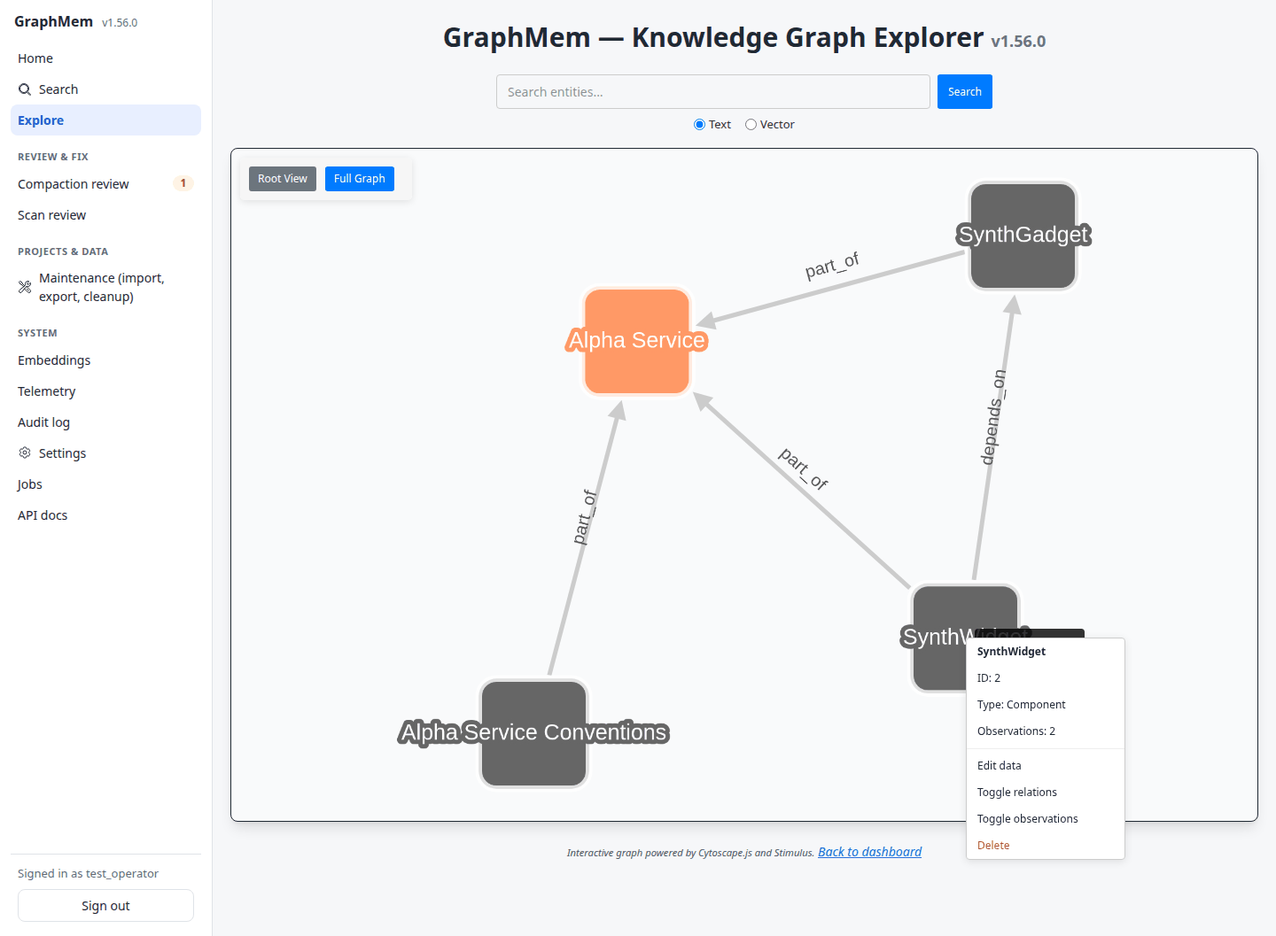
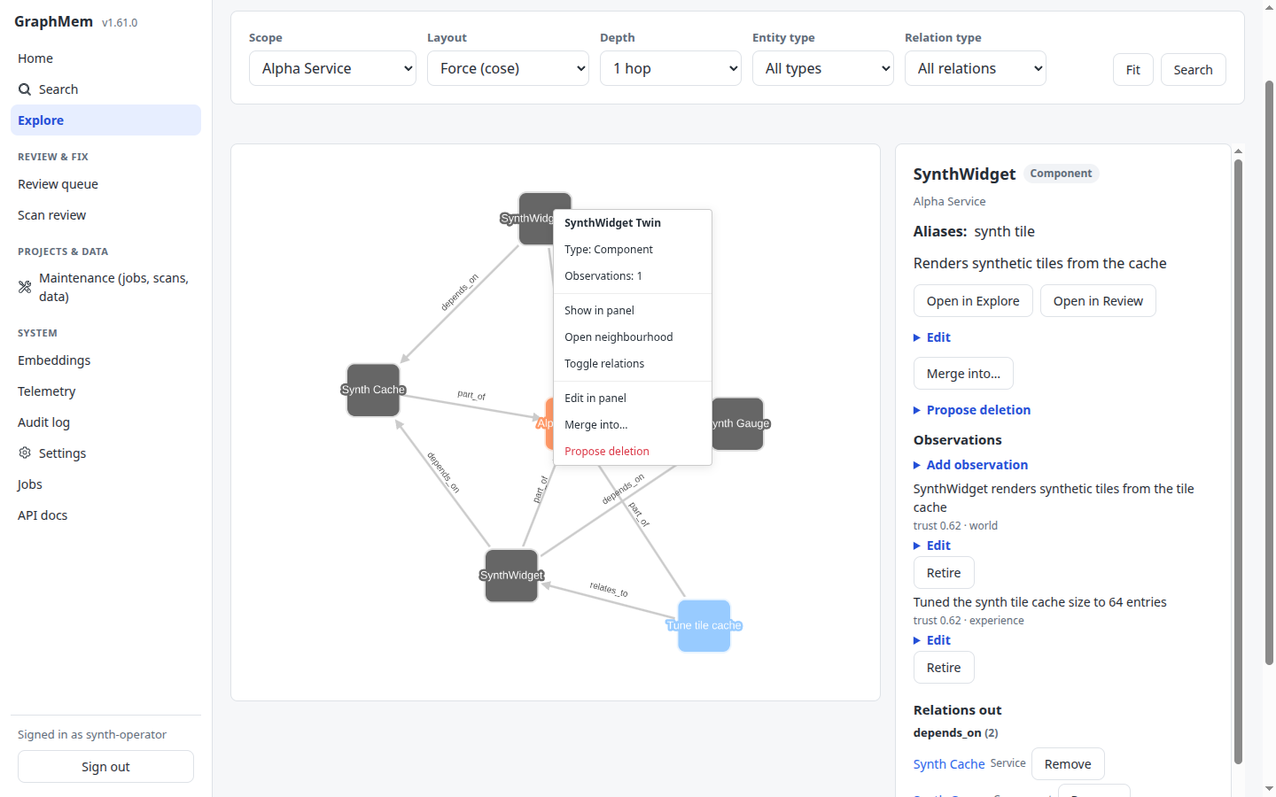
D: docs for Explore
ui-guide: the new Explore section (toolbar, scopes, the cap, menus, drop menu,
panel edits, the merge dialog, the 10-minute undo, Propose deletion), the
guest's read-only Explore, and Undo from Recent changes; the hard-delete and
dedupe text is gone. Synthetic screenshots replace explore-context-menu,
explore-drag-drop and guest-explore, and add explore-merge-dialog.
architecture: the explore.* change set kinds, EntityMergePreview and
EntityMergeService with the before_merge: digest guard, the toast window.
REST reference and Swagger: graph_data's ids, project_id, depth, the cap and
422. Dashboard plan: row 20, F-1, F-2 and the UI-3 leftovers done in #136.

Claude-Session: https://claude.ai/code/session_01R47S482fLpAAcZ5MTLK5o9

diff --git a/docs/plans/ui-dashboard-plan.md b/docs/plans/ui-dashboard-plan.md
@@ -88,11 +88,11 @@ Answered and dropped from the open questions: all four Oct 20 UI questions (acco
 | 17 | ✅ **UI-5** Review & Fix, as UI-5a (#128: data model, limits, policies; no bump) + UI-5b (#129: page, release). Step list: `docs/plans/ui-5-plan.md` | graph_mem **1.58.0** | [Claude] | done |
 | 18 | ✅ **UI-2** as UI-2a (#133: editable MCP allowlists + `bin/up`, **1.58.3**) + UI-2b (#134: Home, **1.59.0**). Step list: `docs/plans/ui-2-plan.md` | graph_mem **1.58.3** + **1.59.0** | [Claude] | done |
 | 19 | ✅ **UI-3** Search, one PR (#135): `GraphSearch` extraction, project/type/match-in filters on the MCP `search` tool and REST search, the Search page and panel, "Show as graph". Step list: `docs/plans/ui-3-plan.md` | graph_mem **1.60.0** | [Claude] | done |
-| 20 | **UI-4b** Explore, one PR, with F-1, F-2 and the UI-3 leftovers folded in. Step list: `docs/plans/ui-4b-plan.md` | **1.61.0** | [Claude] | UI-3 ✅ (panel), UI-4a ✅; **next up** |
+| 20 | **UI-4b** Explore, one PR, with F-1, F-2 and the UI-3 leftovers folded in. Step list: `docs/plans/ui-4b-plan.md` | **1.61.0** | [Claude] | ✅ #136 |
 | 21 | **UI-6** Projects & Data | **1.62.0** | [Claude] | PR-0 ✅, UI-1 |
 | 22 | **UI-7** System (settings schema, backups, access) | **1.63.0** | [Claude] | UI-1 |
 | UD | The other Devin-simple chores (§6.D: D-4 … D-8) | `[Unreleased]` | [Devin-simple] | as listed |
-| F | Small follow-ups (§6.F: F-1, MCP errors never reach the log; F-2, GitHub Actions Ruby setup on `ubuntu-26.04`) | folded into UI-4b (**1.61.0**), Oct 28 | [Claude] | with row 20 |
+| F | Small follow-ups (§6.F: F-1, MCP errors never reach the log; F-2, GitHub Actions Ruby setup on `ubuntu-26.04`) | folded into UI-4b (**1.61.0**), Oct 28 | [Claude] | ✅ #136 (with row 20) |
 
 Rows 0, 1, 1a–1c come from `agent-rules-plan.md`; rows 2, 4–6, 7–14 and D from `mcp-update-plan.md` (both done apart from 1a–1c). `D-nn` numbers refer to the mcp plan's decisions.
 
@@ -551,7 +551,7 @@ See `mcp-update-plan.md`. On the UI side, PR-0 adds only the Settings › Projec
 - **Acceptance:** Home fits in ~1.5 screens at 1440×900 with synthetic data and renders in < 300 ms with the embedding service unreachable (`OLLAMA_URL=http://127.0.0.1:9`; lazy frames).
 
 ### UI-3 [Claude]: Search → **1.60.0** ✅ DONE
-- **Done:** PR #135 (`claude/ui-3-search`), merged as `5e17353` and tagged 1.60.0 (Oct 28). Optional review leftovers (edge-case specs for `page` and Exact-mode escaping, a separate exact-name lookup under the 1,000-row scan cap) are listed at the top of `docs/plans/ui-3-plan.md`.
+- **Done:** PR #135 (`claude/ui-3-search`), merged as `5e17353` and tagged 1.60.0 (Oct 28). Optional review leftovers (edge-case specs for `page` and Exact-mode escaping, a separate exact-name lookup under the 1,000-row scan cap) are listed at the top of `docs/plans/ui-3-plan.md`; ✅ done in #136 (UI-4b step L).
 - **Step list:** `docs/plans/ui-3-plan.md` (Oct 28, revised with Steve's decisions, verified at `487804e`). It wins where the two differ: **one PR** on `claude/ui-3-search`; project, entity type and "match in" (`search_in_*`, now in both modes) become real filters of the MCP `search` tool and `GET /api/v1/memory_entities/search`, applied before ranking (intended `tools/list` snapshot change); the page ignores agents' context; the panel is `EntitiesController#panel`; no `index` action; "Show as graph" ships here as `/graph?ids=` + `GET /api/v1/graph_data?ids=` (see UI-4b).
 - **Branch:** `claude/ui-3-search`.
 - **Files:** new `app/services/graph_search.rb` (extracted from `app/tools/search_tool.rb`; the tool calls it), `app/controllers/search_controller.rb` (thin, `allow_guest :results, :index`), `app/views/search/{index,_filters,_result,_snippet}.html.haml`, `app/views/entities/_panel.html.haml` + `EntitiesController#panel` (`allow_guest :panel`), `app/javascript/controllers/search_controller.js`.
@@ -568,7 +568,8 @@ See `mcp-update-plan.md`. On the UI side, PR-0 adds only the Settings › Projec
 - **Specs:** `spec/services/entity_merge_preview_spec.rb` (the preview matches the actual merge effects on a synthetic graph: counts of moved observations, re-pointed and destroyed relations, reparented children; the preview writes nothing: assert no audit rows or change sets); `spec/services/change_set_undo/merge_spec.rb` (round trip: merge → undo restores the same ids, names, aliases, observation owners, trust scores, relation endpoints, project_ids and the embedding bytes; refuses on a name collision; refuses when an observation moved after the merge; refuses after `undoable_until`; undo of undo = redo); `spec/services/change_set_undo/audit_inverse_spec.rb` (each inverse; refuses when changed since); `spec/requests/changes_spec.rb` (operator 200, guest 403, CSRF required); `spec/strategies/node_operations_strategy_merge_snapshot_spec.rb` (every caller path writes a snapshot; a failing snapshot write rolls the merge back). Plus a concurrency spec (`use_transactional_tests = false`, clean up after): an undo racing a write on the same target blocks on the membership lock and then refuses or succeeds, never a 500 or partial state. That's Steve's rule: block or queue, never race.
 - **Acceptance:** any merge made by any path can be undone from the Rails console with `ChangeSetUndo.call(uuid)` within its window; all existing merge specs stay green.
 
-### UI-4b [Claude]: Explore → **1.61.0**
+### UI-4b [Claude]: Explore → **1.61.0** ✅ DONE
+- **Done:** PR #136 (`claude/ui-4b-explore`), with F-1, F-2 (Ruby 3.4.12) and the UI-3 leftovers (the exact-name query, the backslash and `page` specs).
 - **Builds on UI-3 (Oct 28):** UI-3 adds the read-only panel (`EntitiesController#panel`, Turbo Frame `entity-panel`), `GET /api/v1/graph_data?ids=` (≤ 100 ids, relations among them) and `/graph?ids=` for "Show as graph". Explore's "from search" scope reads the same `ids` parameter from the same endpoint; when this PR deletes `/graph`, redirect `/graph?…` to `/explore?…` with the query string and point Search's "Show as graph" at `explore_path(ids:)`. Reuse (or move under `explore/`) UI-3's panel instead of writing a second one.
 - **Step list:** `docs/plans/ui-4b-plan.md` (Oct 28, verified at `9c8d3bc`). It wins where the two differ, and also carries §6.F F-1, F-2 and the UI-3 leftovers (folded in by Steve, Oct 28).
 - **Branch:** `claude/ui-4b-explore`.
@@ -635,7 +636,7 @@ Each item: branch `devin/ui-d<n>-<slug>` off `main`, the listed spec green, the 
 
 ### 6.F Follow-ups (small, specified items found in review)
 
-- **[Claude] F-1. MCP errors never reach the log** (found in the #134 review, Oct 28). `lib/graph_mem/official_mcp.rb:10-12` (`EXCEPTION_REPORTER`) hands the `mcp` gem's internal errors (its -32603 path, failed notifications) to `Rails.error.report(exception, handled: true, context: { mcp: context.to_h })`, but the app registers **no** `Rails.error` subscriber (`rg -n "Rails.error.subscribe" app lib config` → nothing). `ActiveSupport::ErrorReporter#report` only calls subscribers; `Rails.error.logger` is used only when a subscriber itself raises. So these errors are dropped silently. #134 hit the same gap in `PagesController#home_section` and worked around it with an explicit `Rails.logger.error` (`app/controllers/pages_controller.rb:25-27`).
+- ✅ **Done in #136 (1.61.0).** **[Claude] F-1. MCP errors never reach the log** (found in the #134 review, Oct 28). `lib/graph_mem/official_mcp.rb:10-12` (`EXCEPTION_REPORTER`) hands the `mcp` gem's internal errors (its -32603 path, failed notifications) to `Rails.error.report(exception, handled: true, context: { mcp: context.to_h })`, but the app registers **no** `Rails.error` subscriber (`rg -n "Rails.error.subscribe" app lib config` → nothing). `ActiveSupport::ErrorReporter#report` only calls subscribers; `Rails.error.logger` is used only when a subscriber itself raises. So these errors are dropped silently. #134 hit the same gap in `PagesController#home_section` and worked around it with an explicit `Rails.logger.error` (`app/controllers/pages_controller.rb:25-27`).
   - **Fix (preferred): one small subscriber, which fixes every caller at once.** New `config/initializers/error_logging.rb` with a `GraphMem::ErrorLogSubscriber` (`report(error, handled:, severity:, context:, source:)`) registered with `Rails.error.subscribe`. It logs one line at **error** level: `"#{error.class}: #{error.message}"` plus `source` and the context. Rules:
     - Log **handled** reports only (`return unless handled`). Unhandled ones (requests, jobs) are already logged by Rails, and logging them here would duplicate them.
     - **No secrets or payloads.** The gem passes `{ request: params }` (and `{ request: request }`) as context, i.e. the raw JSON-RPC params, which can carry tool arguments and observation text. Reduce `context[:mcp]` to `method` and the tool `name` when present, never `arguments`. Pass the rest through `ActiveSupport::ParameterFilter.new(Rails.application.config.filter_parameters)`, and truncate the logged context (e.g. 500 chars).
@@ -645,7 +646,7 @@ Each item: branch `devin/ui-d<n>-<slug>` off `main`, the listed spec green, the 
   - **Specs:** `spec/initializers/error_logging_spec.rb` (or `spec/lib/graph_mem/error_log_subscriber_spec.rb`): a handled `Rails.error.report(StandardError.new("synth failure"), handled: true, context: { mcp: { request: { method: "tools/call", params: { name: "search", arguments: { query: "SynthWidget" } } } } })` writes one error line containing the class, message, `tools/call` and `search`, and **not** `SynthWidget`; a context with `token: "synth-secret"` shows `[FILTERED]`; an unhandled report (`handled: false`) writes nothing; a subscriber failure doesn't raise. Plus one spec through `GraphMem::OfficialMcp::EXCEPTION_REPORTER.call(error, { request: … })`. Existing `pages_spec` broken-widget example stays green.
   - **Size:** folded into UI-4b (**1.61.0**), its own commit (Steve, Oct 28). Steps in `docs/plans/ui-4b-plan.md` "F-1".
 
-- **[Claude] F-2. GitHub Actions can't set up Ruby** (found in the #135 review, Oct 28). All three jobs in `.github/workflows/ci.yml` (`scan_ruby`, `scan_js`, `lint`) run on `runs-on: ubuntu-latest` and install Ruby with `ruby/setup-ruby@v1` and `ruby-version: .ruby-version` (`ruby-3.4.1`). Since `ubuntu-latest` moved to Ubuntu 26.04 (from Oct 19), each job fails in seconds with "Unavailable version 3.4.1 for ruby on ubuntu-26.04"; the action builds only the latest patch of each series for newer images and names `3.4.12` as available. `main` fails the same way (first seen on `8ef3c04`); CircleCI (rspec, rubocop, brakeman) is unaffected because it uses the `cimg/ruby` images.
+- ✅ **Done in #136 (1.61.0), Fix A with Ruby 3.4.12.** **[Claude] F-2. GitHub Actions can't set up Ruby** (found in the #135 review, Oct 28). All three jobs in `.github/workflows/ci.yml` (`scan_ruby`, `scan_js`, `lint`) run on `runs-on: ubuntu-latest` and install Ruby with `ruby/setup-ruby@v1` and `ruby-version: .ruby-version` (`ruby-3.4.1`). Since `ubuntu-latest` moved to Ubuntu 26.04 (from Oct 19), each job fails in seconds with "Unavailable version 3.4.1 for ruby on ubuntu-26.04"; the action builds only the latest patch of each series for newer images and names `3.4.12` as available. `main` fails the same way (first seen on `8ef3c04`); CircleCI (rspec, rubocop, brakeman) is unaffected because it uses the `cimg/ruby` images.
   - **Fix A (preferred): bump Ruby to the current 3.4.x** in every place that pins it, in one commit: `.ruby-version`; `Dockerfile` (`ARG RUBY_VERSION=3.4.1`); `.circleci/config.yml` (`cimg/ruby:3.4.1` and `cimg/ruby:3.4.1-browsers`; check that the matching `cimg` tags exist); `bin/mcp_graph_mem_runner.sh` (`EXPECTED_RUBY_VERSION`); `.cursor/install.sh` and `.cursor/environment.json`; the RVM commands in `AGENTS.md`; the badge and prerequisites in `README.md`; and the gemset defaults in `script/mcp_compat/` (`clients.sh`, `rsdk_client.rb`, `rsdk_server.rb`, `README.md`; leave the recorded-run lines as they are). The `Gemfile` has no `ruby` line and `Gemfile.lock` no `RUBY VERSION` section, so neither changes. **Steve chooses the version** (3.4.12 is what the runner offered on Oct 28). Local RVM gemsets need re-creating for the new version.
   - **Fix B (stopgap): pin `runs-on: ubuntu-24.04`** on the three jobs (and the commented-out job at the bottom of `ci.yml`, if it is ever re-enabled). Smaller, but it only lasts until that image is retired, and Ruby stays on an old patch.
   - **Check:** the three Actions jobs green on the PR; CircleCI still green; `docker build` still works with the new `RUBY_VERSION`.

diff --git a/docs/guides/ui-guide.md b/docs/guides/ui-guide.md
@@ -1,6 +1,6 @@
 # GraphMem web UI guide
 
-A tour of the web UI for the **operator** (the graph's owner, full access) and the optional **read-only guest**, as of 1.60.0. It covers signing in, the app shell, each section, the guest account and the usual problems.
+A tour of the web UI for the **operator** (the graph's owner, full access) and the optional **read-only guest**, as of 1.61.0. It covers signing in, the app shell, each section, the guest account and the usual problems.
 
 The screenshots come from a test instance with synthetic data (`Alpha Service`, `SynthWidget`, `SynthGadget`). The image files are in [`docs/images/ui/`](../images/ui/).
 
@@ -44,7 +44,7 @@ The sidebar lists Home, Search and Explore at the top, then three groups (Review
 |---|---|---|
 | — | **Home** | Status only: the health strip, graph counts, the review digest, jobs, recent changes, MCP clients, and the quick search |
 | — | **Search** | Text or vector search over entities |
-| — | **Explore** | The interactive graph (Cytoscape) |
+| — | **Explore** | The interactive graph (Cytoscape) with the entity panel; the operator edits from both |
 | Review & Fix | **Review queue** | Suggestions from compaction, scans and the stale-memory scan, grouped and ranked. The badge counts groups needing attention (refreshed every 30 s) |
 | Review & Fix | **Scan review** | The same page, project-scan suggestions only |
 | Projects & Data | **Maintenance** | Import, export and cleanup; the compactor, garbage collector and relation repair; project scans; the full MCP clients table |
@@ -109,30 +109,36 @@ Search (`/search`, 1.60.0) runs the same search as the agents' MCP `search` tool
   - Agents' active project context never changes this page's order; the Project filter is the way to narrow it.
   - An invalid filter or date shows its message above the results.
 - **Results**, 20 a page with Previous / Next: name, type, the project it belongs to (or "global"), score and the fields that matched, relation count, and up to two observation snippets with the query's words highlighted (the description when no observation matches). **Open in Explore** opens the entity's neighbourhood.
-- **The entity panel**: click a name and its details open beside the list, read-only: aliases, description, observations by trust (10 at a time, with **Show obsolete**), and relations both ways grouped by type. Relations open their own panel. The operator also gets **Open in Review**, which searches Review & Fix for the entity.
-- **Show as graph** opens Explore with exactly this page's results and the relations among them ("From search"; **Back to Root** returns to the usual view).
+- **The entity panel**: click a name and its details open beside the list: aliases, description, observations by trust (10 at a time, with **Show obsolete**), and relations both ways grouped by type. Relations open their own panel. The operator also gets **Open in Review**, which searches Review & Fix for the entity, and the same edits as in Explore (below).
+- **Show as graph** opens Explore with exactly this page's results and the relations among them (the **From search** scope).
 - The old `/search?q=…&strategy=text|vector` links still work (`vector` is Semantic).
 
 ### Explore
 
-The graph starts in **Root View**, which shows the project roots. **Full Graph** shows every entity.
-- **Hover** a node for a tooltip.
-- **Double-click** a node to open its neighbourhood.
-- **Right-click** a node for its menu:
-  - **Observations: N** opens the observation cards. A **Delete All Duplicates** button appears when there are duplicates.
-  - **Edit data**;
-  - **Toggle relations**, **Toggle observations**;
-  - **Delete**.
-- **Right-click** an edge for **Edit Type** and **Delete Relation**.
+**Explore** (`/explore`) is the graph canvas, a toolbar above it and the entity panel beside it (the same panel as Search's). The old `/graph` links redirect here, query string included.
+
+- **Toolbar:** **Scope** (Root view: the project roots; Full graph; a project and everything under it; Neighbourhood; From search), **Layout** (force, tree, concentric, grid), **Depth** (1 or 2 hops for a neighbourhood), **Entity type** and **Relation type** filters (they only hide elements, nothing is reloaded), **Fit**, and a link to Search. The scope is kept in the URL, so a reload or a shared link opens the same view.
+- **At most 2,000 entities** are drawn at a time. A bigger scope says "Showing 2,000 of N entities; pick a project to see the rest."
+- **Click** a node to open its panel; **double-click** to open its neighbourhood; **hover** for a tooltip.
+- **Right-click** a node for **Show in panel**, **Open neighbourhood** and **Toggle relations**. The operator also gets **Edit in panel**, **Merge into…** and **Propose deletion** (not for a project root). **Right-click** an edge for its endpoints and type; the operator also gets **Remove relation**.
+- **Drag one node onto another** (operator): **Add relation…** opens the type picker (suggested types first, the direction spelled out, **Swap direction**); **Move under…** opens a card with how many entities move and, in amber, any project change; **Merge A into B…** (same type only) opens the merge dialog. **Cancel**, or a click elsewhere, puts the node back.
 
 ![Node context menu (operator)](../images/ui/explore-context-menu.png)
 
-**Drag one node onto another** to open the Node-to-Node Action menu:
-- **Merge Nodes** merges the dragged node into the target.
-- **Create Relation** creates a relationship between the nodes.
-- **Cancel** puts the node back.
-
 ![Drag-and-drop action menu](../images/ui/explore-drag-drop.png)
+
+**Editing from the panel (operator):** **Edit** (name, type, aliases, description; a project root only **Rename** and description), **Add observation** (text and perspective), per observation **Edit** (the old text is kept as superseded) and **Retire** (marks it obsolete), per relation **Remove**, **Merge into…**, **Propose deletion**, and **Recent changes**: the last five changes to the entity, each with **Undo** while it can still be undone.
+- An exact duplicate observation is refused. A similar one shows "Similar to: …" with **Add anyway**. Without embeddings the similarity check is skipped and the toast says "similarity not checked".
+- A name already used in the same project is refused, with the message in the form.
+- Project roots can be renamed but not retyped, given aliases, moved, merged or proposed for deletion.
+
+**The merge dialog:** "Merge **A** (source, will be removed) into **B** (survivor)", **Swap direction**, a hint about which one looks canonical, and what the merge will do: the observations that move, the relations re-pointed and dropped, the aliases B gains, the `part_of` children re-parented and any entities that change project, and the open review rows anchored on A (a merge doesn't close them). Different types or a project root disable **Merge** and say why. If the graph changes between the dialog and **Merge**, the merge is refused ("The graph changed since the preview, review it again.") and nothing is written.
+
+![The merge dialog](../images/ui/explore-merge-dialog.png)
+
+**Every edit is undoable.** Each one is recorded as one change set with you as the actor, shows in Home's recent activity and the panel's Recent changes, and the toast offers **Undo** for 10 minutes. After that the toast says "Undo it later from Home › Recent activity"; the change stays undoable for 30 days (7 for a merge).
+
+**Explore never deletes.** There is no delete and no "delete duplicates" here. **Propose deletion** adds a delete suggestion to **Review & Fix** (Scan review) with an optional reason and links to it; proposing the same entity again links to the pending suggestion.
 
 ### Review & Fix
 
@@ -166,7 +172,7 @@ The graph starts in **Root View**, which shows the project roots. **Full Graph**
 
 ### Undo (1.57.0)
 
-Every graph write, merge (including compaction auto-merges) and review action is recorded as a change set. The operator can undo one within 7 days for merges, 30 days for everything else: from the toast, from **Review › Resolved** or **Policies**, or with `POST /changes/:uuid/undo`. Sets that hard-delete an entity or observation, or mix a merge with other writes, are recorded but can't be undone. Guests can't undo (403).
+Every graph write, merge (including compaction auto-merges), review action and Explore edit is recorded as a change set. The operator can undo one within 7 days for merges, 30 days for everything else: from the toast (Explore's toasts offer it for 10 minutes), from **Review › Resolved** or **Policies**, from an entity panel's **Recent changes**, or with `POST /changes/:uuid/undo`. Sets that hard-delete an entity or observation, or mix a merge with other writes, are recorded but can't be undone. Guests can't undo (403).
 
 ### Projects & Data
 
@@ -207,7 +213,7 @@ The guest gets **Search** and **Explore**, a **Read-only guest** badge, and **Si
 
 ![Guest shell](../images/ui/guest-search.png)
 
-In **Explore**, the guest can browse, open neighbourhoods, toggle relations and observations, and read observation cards. There are no edit or delete items, no duplicate-delete button and no drag-and-drop.
+In **Explore**, the guest gets the same canvas, toolbar and panel: browse, pick a scope, open neighbourhoods, toggle relations and read the panel. There are no edit items in the menus, no edit forms in the panel, no Recent changes, and dragging a node only moves it on the screen. Every Explore write answers a guest with 403.
 
 ![Explore as guest: read-only node menu](../images/ui/guest-explore.png)
 

diff --git a/docs/architecture.md b/docs/architecture.md
@@ -229,7 +229,8 @@ A **change set** (`change_sets`, `ChangeSet`) groups the writes of one user-visi
   - `graph_write` / `graph_edit` / `graph_delete` (MCP and services): `graph.write`, `graph.edit`, `graph.delete`;
   - the review actions (`CompactionReviewService` apply, dismiss, restore, ignore, snooze and the bulk variants): `review.*`; group actions on the Review page (`ReviewGroupActions`): `review.group_apply`, `review.group_dismiss`, `review.group_snooze`;
   - the review policies (`ReviewPolicyRunner`, actor `policy:<name>`): `policy.<name>`, one set per batch of 200 rows;
-  - every merge path (`NodeOperationsStrategy#merge_into`): `merge`, or the caller's kind: `maintenance.merge_node`, `compaction.auto_merge` (actor `compaction:<run_id>`, one set per merge), `api.write` (every non-GET `/api/v1` request).
+  - every merge path (`NodeOperationsStrategy#merge_into`): `merge`, or the caller's kind: `maintenance.merge_node`, `compaction.auto_merge` (actor `compaction:<run_id>`, one set per merge), `api.write` (every non-GET `/api/v1` request), `explore.merge`;
+  - Explore's edits (UI-4b, 1.61.0, `ExploreEdits`, actor `operator:<user>@<ip>`), one set per edit: `explore.entity_edit`, `explore.observation_add`, `explore.observation_edit` (a supersede), `explore.observation_retire`, `explore.relation_add`, `explore.relation_remove`, `explore.move` and `explore.merge`. Explore's own rules (project roots: rename only, and they can't move) live in `ExploreEdits`, not in `GraphEditService` or the strategy, so the MCP tools are unchanged. Propose deletion writes no set: it seeds a `delete_entity` review row (`source: "operator"`).
   - A set opened inside another one joins it: a merge in a `graph_delete` batch or a review apply belongs to the outer set.
   - Imports, scans, observation dedupe and garbage collection are not recorded (their audit rows keep `change_set_id` NULL).
 - **Lazy rows, no new locks.** `ChangeSet.record` opens no transaction and takes no lock. It only sets `Current.change_set`. The row is inserted by the first write that needs it, inside that write's transaction, so a set without changes never exists and a rolled-back write takes its set (and its snapshot entries) with it.
@@ -257,6 +258,8 @@ A **change set** (`change_sets`, `ChangeSet`) groups the writes of one user-visi
   - **Refusals are all-or-nothing.** A record changed since (the message names the actor and time), a name or id taken, a moved observation or edge, or a deleted target (naming the change to undo first) rolls everything back.
   - **The undo is itself a set** (`undo`), and undoing it is a `redo`, undoable in turn. Undoing a create deletes rows, so that undo is `hard_delete` and can't be redone.
 - **Lock order and embeddings.** The undo takes the membership lock, then suppresses inline embeds, then opens the transaction, then takes row locks: the advisory-first rule, so it serializes with merges, imports, the backfill and review applies. The restored source keeps its old vector and `embedded_at`; text the undo changed (the target's aliases, restored names) is re-embedded after the lock is released (at most 50 inline, the rest by the daily backfill). Trust scores are recomputed, never restored.
+- **Explore merges and the preview digest.** `EntityMergePreview.new(source_id, target_id).call` reads, without writing, what `merge_into_once` / `merge_locked!` would do: the observations that move (any status), the relations re-pointed and dropped (target duplicates and A↔B edges), the aliases gained (`NodeOperationsStrategy#merged_aliases`, shared with the merge), the `part_of` children re-parented and the entities that change project, plus a SHA-256 `digest` of those id lists and the target's aliases. `EntityMergeService.call(source_id:, target_id:, digest:, actor:)` merges with `change_set_kind: "explore.merge"` and a `before_merge:` callable that `merge_into_once` runs on the locked rows, after its checks and before anything is written: when the preview recomputed there has another digest, the merge returns `status: :conflict` ("The graph changed since the preview, review it again.") and writes nothing. `before_merge:` defaults to `nil`, so every other merge path is unchanged.
+- **The 10-minute toast.** Explore's undo toasts carry `until` (10 minutes); `toast_controller.js` then swaps **Undo** for "Undo it later from Home › Recent activity". The undo itself is still bounded by the strategy's window above.
 - **Retention.** `ChangeSetPruneJob` (daily, 5:30 AM GMT) clears snapshots older than 30 days and deletes sets older than 90 days that no audit row references.
 
 ## Review queue: classification, limits and policies (UI-5a)

diff --git a/docs/api/rest_api_reference.md b/docs/api/rest_api_reference.md
@@ -329,11 +329,14 @@ Returns totals (entities, observations, relations, audit_logs), entity type dist
 
 | Parameter | Type | Description |
 |-----------|------|-------------|
-| entity_id | integer | Show subgraph centered on this entity (1-hop) |
+| ids | string | 1 to 100 comma-separated entity ids: those entities and the relations among them (Search's "Show as graph") |
+| project_id | integer | A project root and its `part_of` subtree |
+| entity_id | integer | The neighbourhood of this entity |
+| depth | integer | With `entity_id`: `1` (default) or `2` hops |
 | scoped_entity_id | integer | Show scoped subgraph (entity + part_of children) |
 | root_only | boolean | Show only Project-type entities |
 
-Returns Cytoscape.js-compatible `{ elements: [...], options: {...} }`.
+Returns Cytoscape.js-compatible `{ elements: [...], options: {...} }`. Every view holds at most 2,000 entities (the lowest ids, the focus always included) and only the relations among them; when the cap applies the body also has `"truncated": true` and `"total": N`. An invalid `ids`, `depth` or `project_id` is a `422` with a fixed message. Guest-readable.
 
 ---
 
